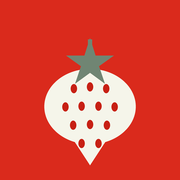
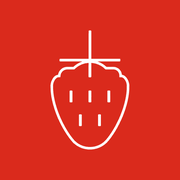
App-ikon: offisiell JP-jordbær (hvit på rød) for PWA/hjem-skjerm
Erstatter det gamle håndtegnede ikonet med den offisielle hvite jordbær-
silhuetten (m/ frø) på JP-rød bunn, i 180/192/512. Bumper SW-cache v1→v2 så
nye ikoner slår inn.

Changed region(s): [[0.2222, 0.1667, 0.7778, 0.9167]]

diff --git a/public/sw.js b/public/sw.js
@@ -1,5 +1,5 @@
 // Service worker for offline-bruk. Bump CACHE-versjonen ved ny app-versjon.
-const CACHE = "jp-kjokken-v1";
+const CACHE = "jp-kjokken-v2";
 const CORE = [
   "./",
   "./index.html",
